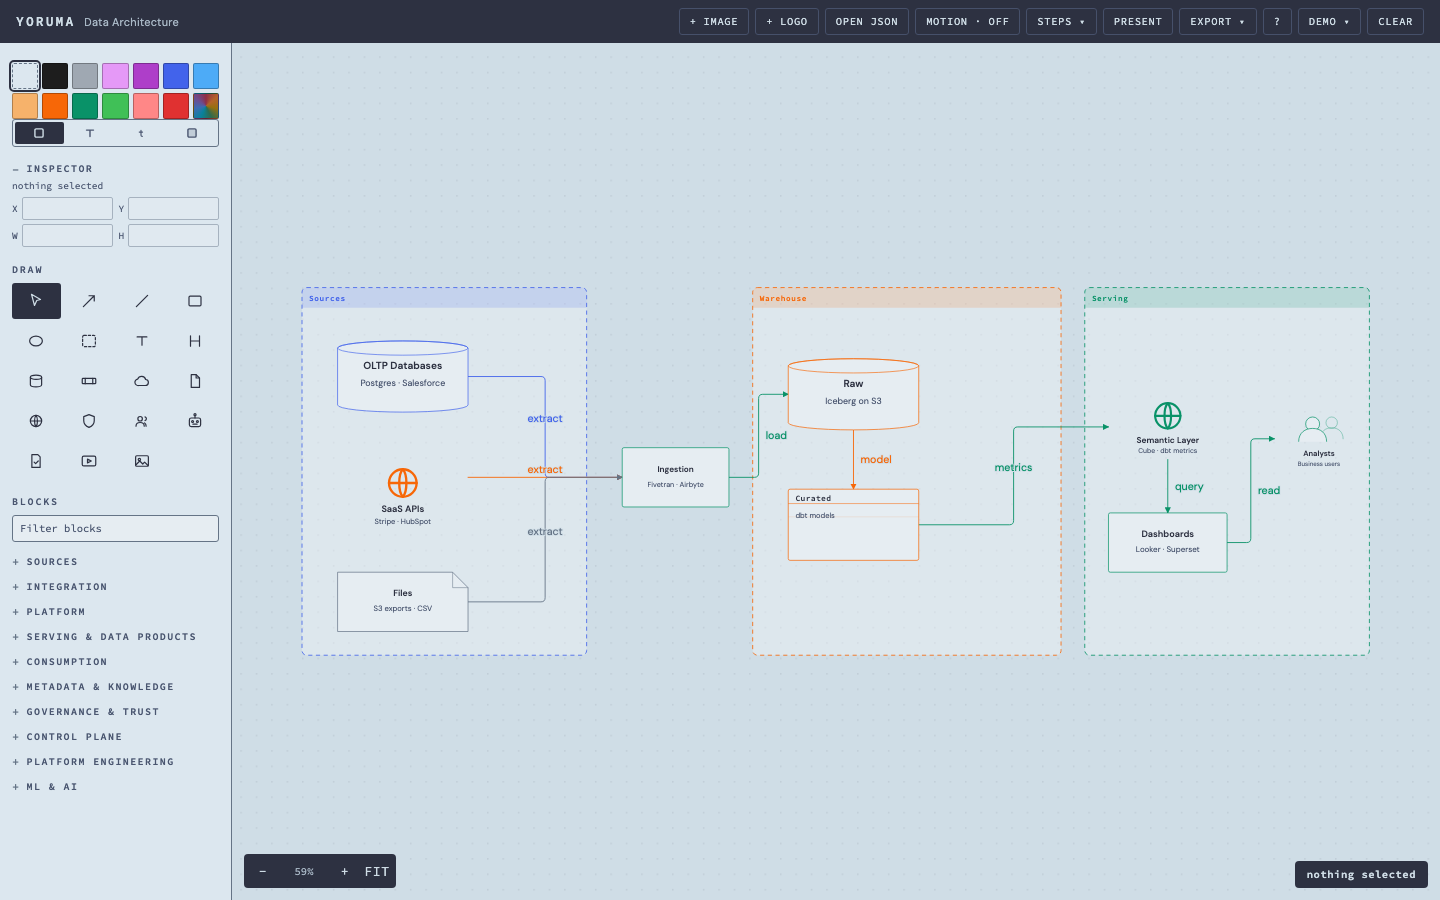
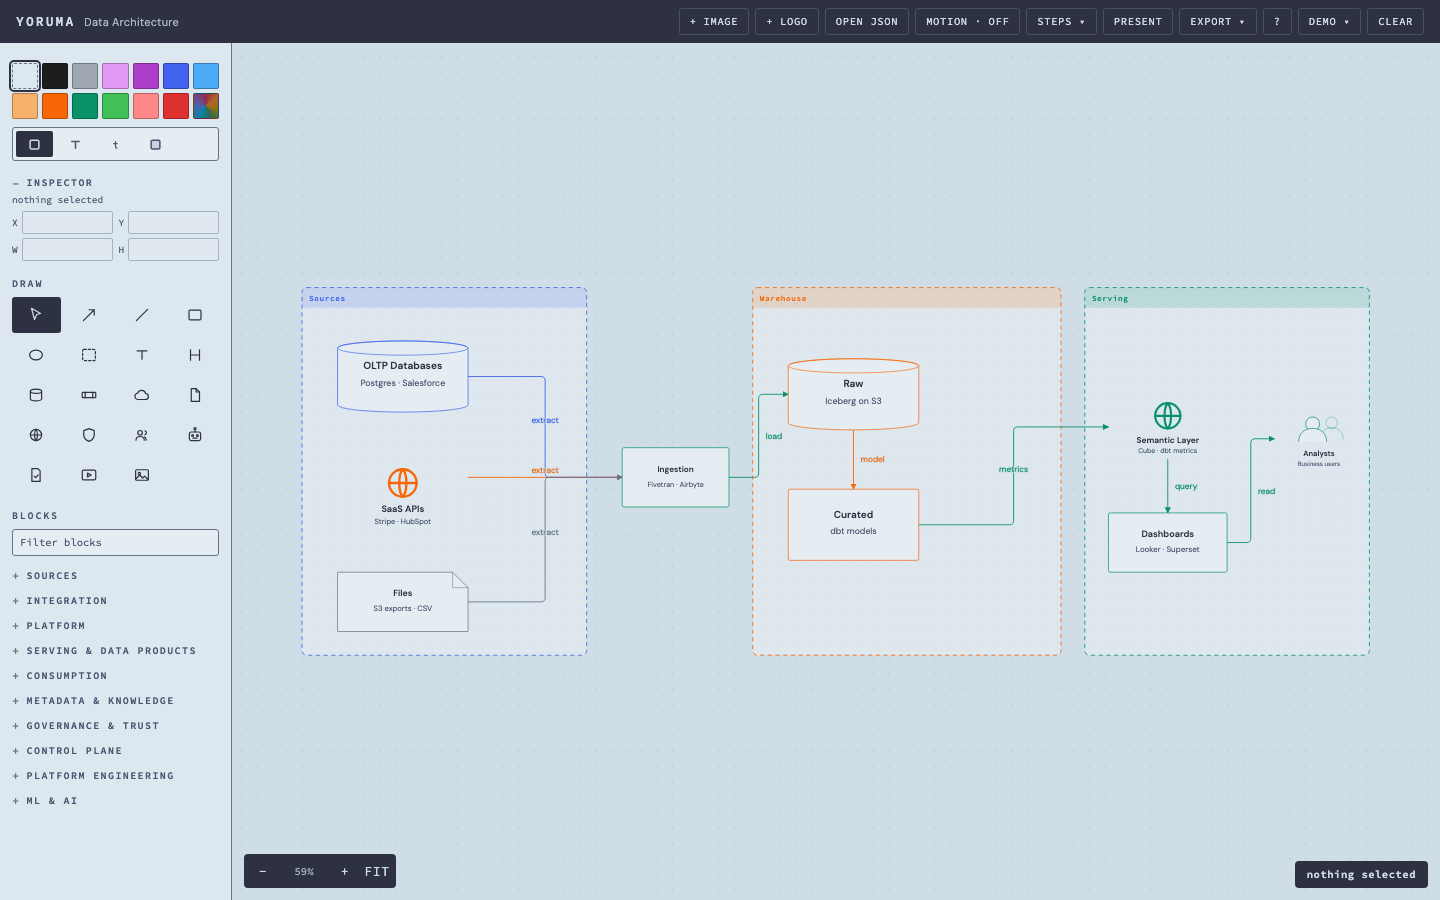
feat(ui): smaller defaults, cleaner colour targets, no table in the examples
Arrow notes drop to 14px and zone titles to 15px; the colour-target strip is a
five-column segmented control instead of a squeezed row; the examples use plain
rectangles where they used the table kind, which the palette never offered; and
the demo document leaves the DEMO menu. Screenshots regenerated, including a
nested VPC/region/subnet frame for the zones section.

diff --git a/js/05-examples.js b/js/05-examples.js
@@ -12,7 +12,7 @@ const EXAMPLES = [
     {"id":"b_files","kind":"file","title":"Files","sub":"S3 exports \u00b7 CSV","color":"#657486","tcolor":null,"scolor":null,"fs":1,"x":60,"y":480,"w":220,"h":100},
     {"id":"b_ing","kind":"box","title":"Ingestion","sub":"Fivetran \u00b7 Airbyte","color":"#099268","tcolor":null,"scolor":null,"fs":1,"x":540,"y":270,"w":180,"h":100},
     {"id":"b_raw","kind":"store","title":"Raw","sub":"Iceberg on S3","color":"#F76707","tcolor":null,"scolor":null,"fs":1,"x":820,"y":120,"w":220,"h":120},
-    {"id":"b_cur","kind":"table","title":"Curated","sub":"dbt models","color":"#F76707","tcolor":null,"scolor":null,"fs":1,"x":820,"y":340,"w":220,"h":120},
+    {"id":"b_cur","kind":"box","title":"Curated","sub":"dbt models","color":"#F76707","tcolor":null,"scolor":null,"fs":1,"x":820,"y":340,"w":220,"h":120},
     {"id":"b_sem","kind":"api","title":"Semantic Layer","sub":"Cube \u00b7 dbt metrics","color":"#099268","tcolor":null,"scolor":null,"fs":1,"x":1360,"y":180,"w":200,"h":110},
     {"id":"b_dash","kind":"box","title":"Dashboards","sub":"Looker \u00b7 Superset","color":"#099268","tcolor":null,"scolor":null,"fs":1,"x":1360,"y":380,"w":200,"h":100},
     {"id":"b_people","kind":"people","title":"Analysts","sub":"Business users","color":"#099268","tcolor":null,"scolor":null,"fs":1,"x":1640,"y":200,"w":150,"h":110},
@@ -66,8 +66,8 @@ const EXAMPLES = [
     {"id":"m_unstr","kind":"file","title":"Unstructured","sub":"Docs \u00b7 images \u00b7 logs","color":"#657486","tcolor":null,"scolor":null,"fs":1,"x":60,"y":360,"w":240,"h":110},
     {"id":"m_feat","kind":"box","title":"Feature Store","sub":"Feast \u00b7 Tecton","color":"#AE3EC9","tcolor":null,"scolor":null,"fs":1,"x":620,"y":120,"w":220,"h":110},
     {"id":"m_train","kind":"box","title":"Training","sub":"PyTorch \u00b7 Ray","color":"#AE3EC9","tcolor":null,"scolor":null,"fs":1,"x":620,"y":320,"w":220,"h":110},
-    {"id":"m_exp","kind":"table","title":"Experiments","sub":"MLflow tracking","color":"#AE3EC9","tcolor":null,"scolor":null,"fs":1,"x":900,"y":120,"w":200,"h":110},
-    {"id":"m_reg","kind":"table","title":"Model Registry","sub":"MLflow \u00b7 SageMaker","color":"#AE3EC9","tcolor":null,"scolor":null,"fs":1,"x":900,"y":320,"w":200,"h":110},
+    {"id":"m_exp","kind":"box","title":"Experiments","sub":"MLflow tracking","color":"#AE3EC9","tcolor":null,"scolor":null,"fs":1,"x":900,"y":120,"w":200,"h":110},
+    {"id":"m_reg","kind":"box","title":"Model Registry","sub":"MLflow \u00b7 SageMaker","color":"#AE3EC9","tcolor":null,"scolor":null,"fs":1,"x":900,"y":320,"w":200,"h":110},
     {"id":"m_srv","kind":"api","title":"Model Serving","sub":"KServe \u00b7 BentoML","color":"#099268","tcolor":null,"scolor":null,"fs":1,"x":1240,"y":180,"w":200,"h":110},
     {"id":"m_eval","kind":"shield","title":"Evaluation & Drift","sub":"Quality gates","color":"#657486","tcolor":null,"scolor":null,"fs":1,"x":1240,"y":400,"w":200,"h":110},
     {"id":"m_app","kind":"box","title":"Applications","sub":"Products \u00b7 agents","color":"#099268","tcolor":null,"scolor":null,"fs":1,"x":1520,"y":180,"w":180,"h":110},

diff --git a/js/50-render.js b/js/50-render.js
@@ -103,14 +103,14 @@ function render(){
       const vertical = Math.abs(pts[pts.length-1][0]-pts[0][0]) <
                        Math.abs(pts[pts.length-1][1]-pts[0][1]);
       const k = l.fs || 1;
-      const lines = wrapLines(l.label, (vertical ? 150 : 240)*k, 18*k, false, 4);
+      const lines = wrapLines(l.label, (vertical ? 120 : 190)*k, 14*k, false, 4);
       const x = vertical ? m.x + 12*k : m.x;
-      const lh = 22*k;
-      const y = vertical ? m.y + 6*k - (lines.length - 1)*lh/2
-                         : m.y - 8*k - (lines.length - 1)*lh;
+      const lh = 17*k;
+      const y = vertical ? m.y + 5*k - (lines.length - 1)*lh/2
+                         : m.y - 7*k - (lines.length - 1)*lh;
       const t = mk('text', { x, y, 'text-anchor': vertical ? 'start' : 'middle',
-        'font-family':"'VD Sans',sans-serif", 'font-size':String(18*k),
-        fill: colorAt(l.color) || MUTED, stroke:PAPER, 'stroke-width':'3',
+        'font-family':"'VD Sans',sans-serif", 'font-size':String(14*k),
+        fill: colorAt(l.color) || MUTED, stroke:PAPER, 'stroke-width':'2.6',
         'paint-order':'stroke', 'pointer-events':'all', 'data-role':'label' });
       lines.forEach((ln, i) => {
         const sp = mk('tspan', { x, dy: i ? lh : 0 });

diff --git a/css/app.css b/css/app.css
@@ -21,12 +21,12 @@
     letter-spacing:.16em; text-transform:uppercase}
   .brand span{color:var(--muted-on-dark); font-weight:400; letter-spacing:.02em;
     text-transform:none; margin-left:9px; font-size:11px; font-family:'VD Sans',sans-serif}
-  .paint{display:flex; gap:2px; padding:2px; border:1px solid var(--line); border-radius:3px}
-  .paint button{
-    flex:1; border:0; background:transparent; color:var(--muted); padding:4px 0;
-    border-radius:2px; display:grid; place-items:center; cursor:pointer;
-  }
-  .paint button svg{width:14px; height:14px}
+  .paint{display:grid; grid-template-columns:repeat(5,1fr); gap:3px; padding:3px;
+    margin-top:8px; border:1px solid var(--line); border-radius:3px; background:var(--card)}
+  .paint button{height:26px; border:0; background:transparent; color:var(--muted);
+    border-radius:2px; display:grid; place-items:center; cursor:pointer}
+  .paint button:hover{background:rgba(45,49,65,.08)}
+  .paint button svg{width:15px; height:15px}
   .paint button.on{background:var(--ink); color:var(--paper)}
   .swatches{display:grid; grid-template-columns:repeat(7,1fr); gap:4px; margin-top:8px}
   .sw{width:100%; aspect-ratio:1; border-radius:2px; cursor:pointer;

diff --git a/js/94-hud.js b/js/94-hud.js
@@ -235,11 +235,6 @@ function clearDoc(){
       !confirm('Clear the whole document? Undo restores it until reload.')) return;
   snapshot(); nodes = []; links = []; clearSel(); render(); fit();
 }
-function loadDemoDoc(){
-  if ((nodes.length || links.length) &&
-      !confirm('Load the demo? This replaces the current document. Undo restores it.')) return;
-  snapshot(); loadDemo(); S.selNodes = []; S.selLinks = []; render(); fit();
-}
 function loadExample(id){
   const ex = EXAMPLES.find(e => e.id === id);
   if (!ex) return;
@@ -262,7 +257,6 @@ function renderDemoMenu(){
   };
   add('Blank canvas', clearDoc);
   EXAMPLES.forEach(ex => add(ex.name, () => loadExample(ex.id)));
-  add('Demo document', loadDemoDoc);
 }
 const demoMenu = document.getElementById('demo-menu');
 document.getElementById('btn-demo').addEventListener('click', ev => {

diff --git a/js/99-tests.js b/js/99-tests.js
@@ -100,7 +100,7 @@ if (/[?&]test/.test(location.search)){
   lnk.fs = 2;
   render();
   const lb2 = stage.querySelector('[data-role="label"]');
-  ok('arrow label size', !!lb2 && lb2.getAttribute('font-size') === '36');
+  ok('arrow label size', !!lb2 && lb2.getAttribute('font-size') === '28');
   lnk.fs = 1;
   lnk.label = '';
   render();

diff --git a/js/40-shapes.js b/js/40-shapes.js
@@ -218,7 +218,7 @@ function drawText(g, n){
   }
   if (n.kind === 'zone'){
     if (n.band) return;
-    addLines(g, n.x + 12, n.y + 28, 'start', ink, CODE, 20*fscale(n), W1, '.12em',
+    addLines(g, n.x + 12, n.y + 24, 'start', ink, CODE, 15*fscale(n), W1, '.12em',
       [title.toUpperCase()], 0, ST, 'title');
     return;
   }

diff --git a/js/98-boot.js b/js/98-boot.js
@@ -1,6 +1,6 @@
 /* ---------- boot ---------- */
 const restored = restore();
-const wantDemo = /[?&](test|selftest|demo)\b/.test(location.search);
+const wantDemo = /[?&](test|selftest)\b/.test(location.search);
 if (!restored && wantDemo) loadDemo();
 setTool('select', 'draw');
 render();

diff --git a/README.md b/README.md
@@ -7,12 +7,11 @@ step at a time.
 **Use it:** <https://soyomarvaldezg.github.io/yoruma/> — or clone the repository and open
 `index.html` locally. Nothing to install, no build step. A first visit starts on a blank
 canvas; **DEMO ▾** in the header offers three worked examples built only from the Blocks —
-a modern BI stack, a real-time streaming pipeline and an ML platform — plus the original demo
-document (or open `index.html?demo` for that one).
+a modern BI stack, a real-time streaming pipeline and an ML platform.
 
 ![A modern BI stack built from the Blocks](docs/example-bi.png)
 
-![The editor with the demo document open](docs/editor.png)
+![The editor with the modern BI example open](docs/editor.png)
 
 Zones nest and take a header band, so a VPC, a region and a group read the way cloud diagrams
 do, and moving the outer one carries everything inside it.
@@ -73,7 +72,7 @@ the camera to the bounds of its shapes and dims everything else; a badge shows
 restores the chrome. With no steps defined, present falls back to walking the zones, ordered by
 a number in their title (`01 / Sources`) or by position.
 
-Zone titles render at 20px — they read as section headers, not captions.
+Zone titles render at 15px, or 13px inside a header band.
 
 **Arrow** draws a free arrow unless both ends land on shapes, in which case it becomes a
 connected flow. **Line** is always free.
@@ -151,7 +150,7 @@ Enter again commits, Escape cancels. Long text wraps and ellipsizes.
   Enter runs the fallback chain; the twenty data-platform brands are always offered as tiles at
   the top of the picker
 - **text size** — `[` and `]`, from 0.4× to 4×, for the selected shapes and for an
-  arrow's note; the arrow note defaults to 18px
+  arrow's note; the arrow note defaults to 14px
 - **text alignment** — three buttons at the end of the floating shape bar (headings included,
   left/centre/right)
 - **fit to screen** — `F`

diff --git a/BACKLOG.md b/BACKLOG.md
@@ -29,8 +29,12 @@ Open work, roughly in the order it earns attention. Finished work lives in the g
 
 - [ ] GitHub mark in the header linking to the repository.
 - [ ] Omar's logo in the header, in place of, or beside, the `yoruma` wordmark.
-- [ ] First-visit tour: an optional walkthrough over the real UI (draw a shape, colour a card,
-      add a step, present) with the option to skip and never see it again.
+- [x] First-visit tour — dropped by Omar: no walkthrough.
+
+## Top bar
+
+- [ ] Decide how to reduce the header: group related actions behind two or three menus, or keep
+      only PRESENT and EXPORT visible and move the rest into an overflow menu.
 
 ## Features still open
 
